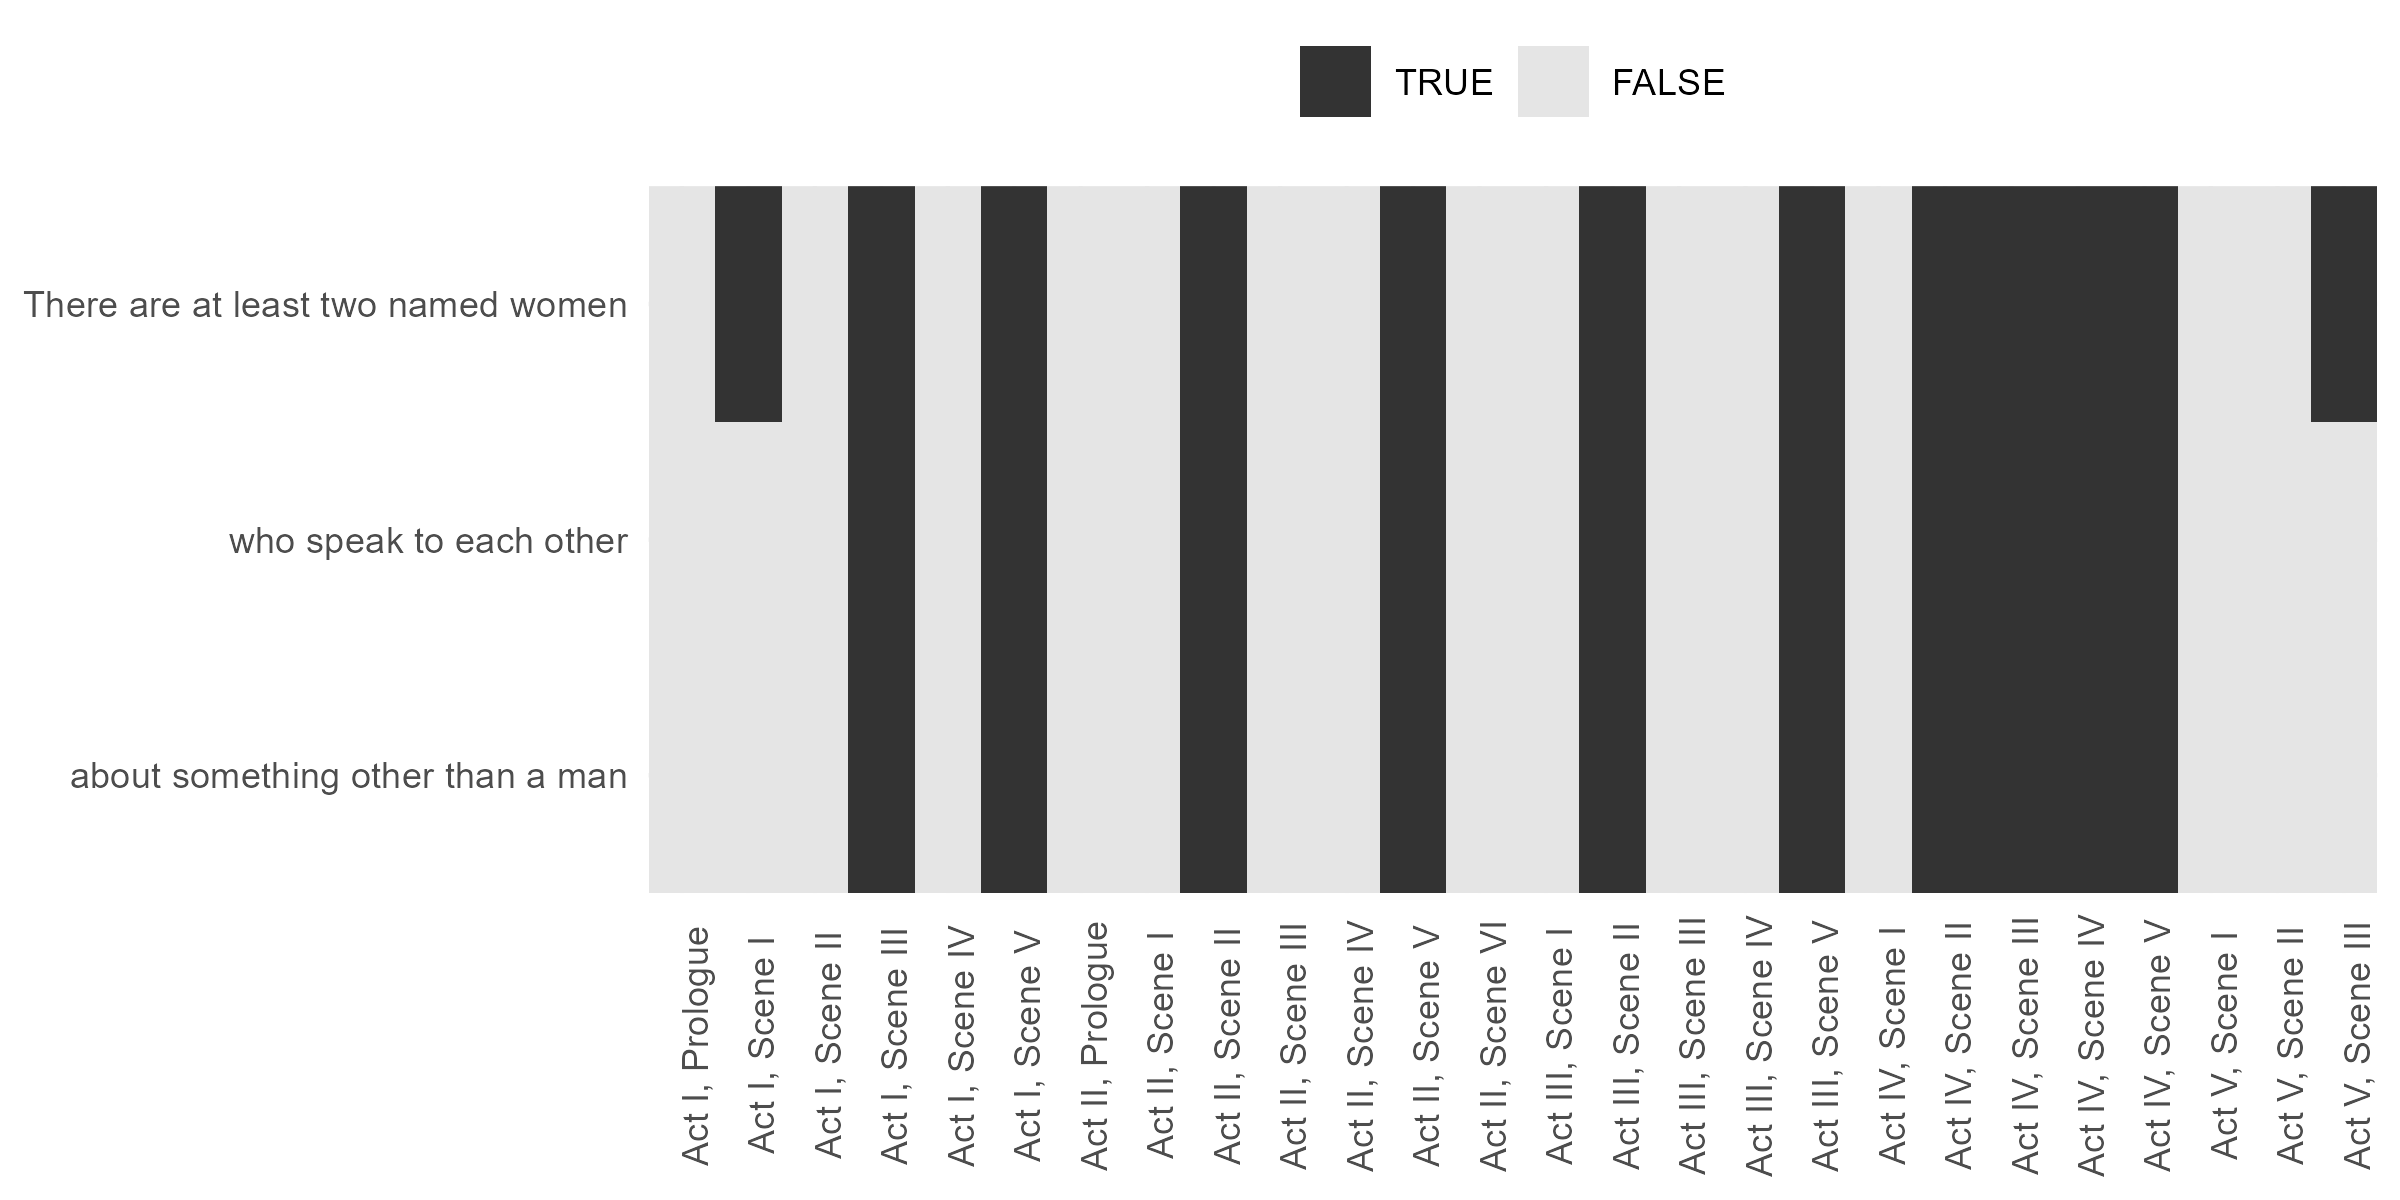
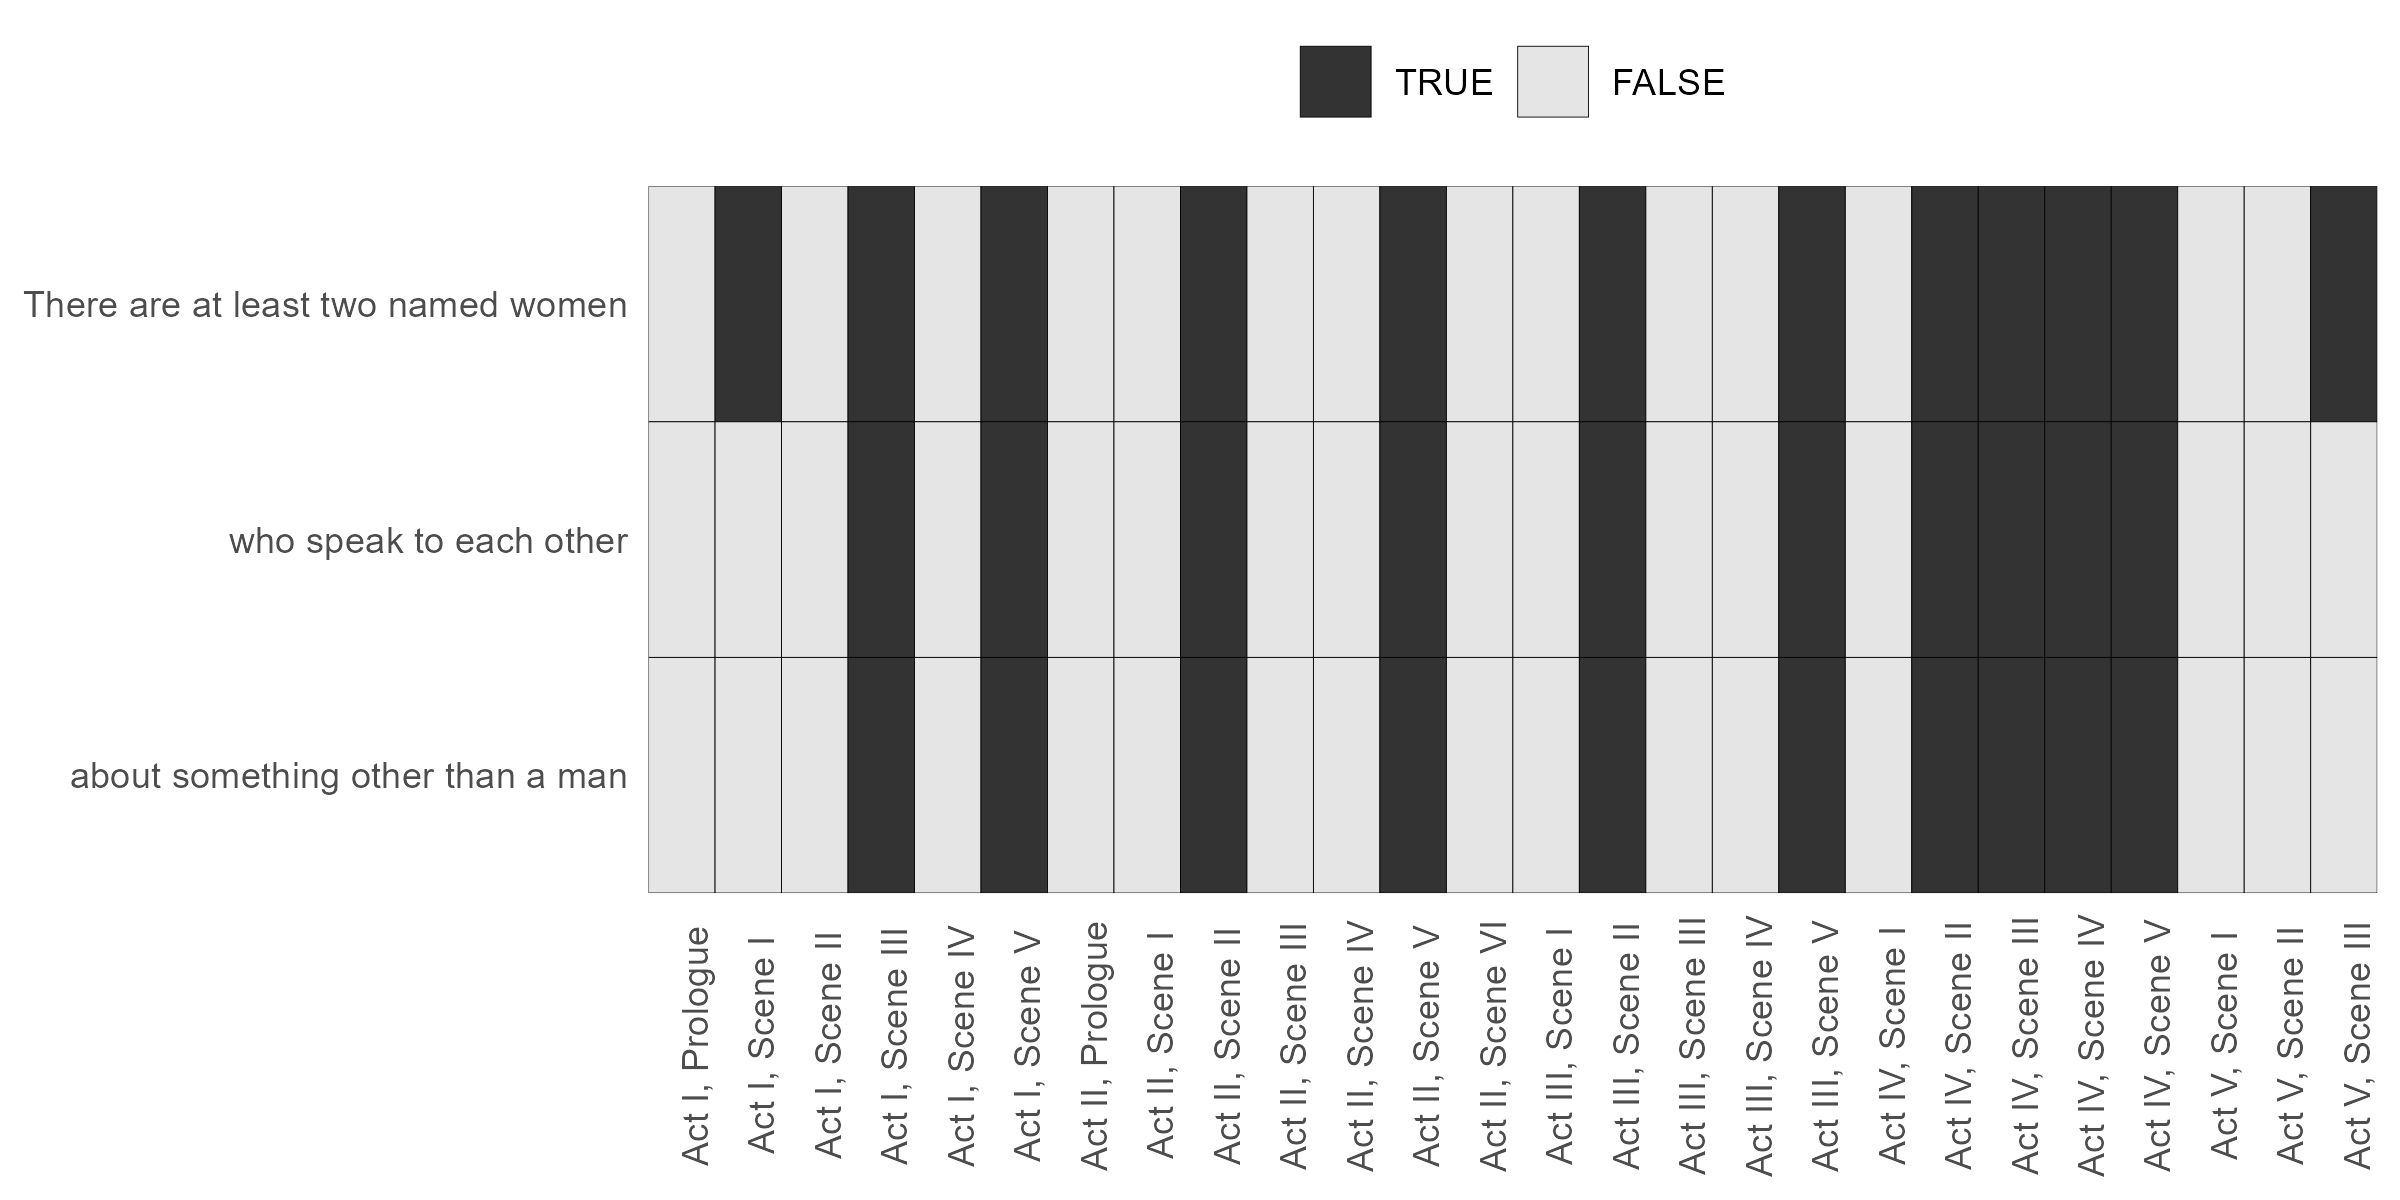
update plots and readme

Changed region(s): [[0.9062, 0.3392, 0.9375, 0.37]]

diff --git a/README.md b/README.md
@@ -10,7 +10,7 @@ See more on [Wikipedia](https://en.wikipedia.org/wiki/Bechdel_test).
 
 ## Data
 
-The script data is scraped from [https://shakespeare.mit.edu/romeo_juliet/full.html](https://shakespeare.mit.edu/romeo_juliet/full.html), and processed into CSV format. The processing code can be found in the `R/scrape_data.R` file.
+The script data is scraped from [shakespeare.mit.edu/romeo_juliet/full.html](https://shakespeare.mit.edu/romeo_juliet/full.html), and processed into CSV format. The processing code can be found in the `R/scrape_data.R` file.
 
 ## Implementation
 
@@ -29,7 +29,7 @@ Two female characters are considered to be having a conversation if they have co
 The conversation between two female characters is considered to not be about a man if it does not contain any of the male names, or the words *he*, *him*, *his*, or *he's*.
 
 > [!WARNING]
-> The implementation of the third test is currently a work-in-progress. Currently if any individual line doesn't contain a mention of a man, it is considered a pass. 
+> The implementation of the third test is currently a work-in-progress. Currently if any individual line doesn't contain a mention of a man, it is considered a pass. This means the current pass rate is inflated.
 
 ## Results
 
